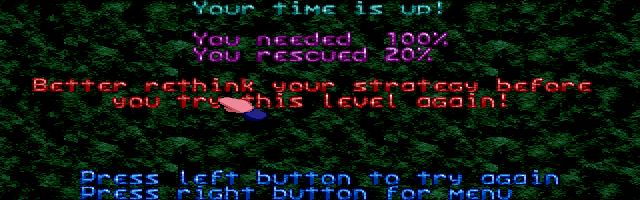
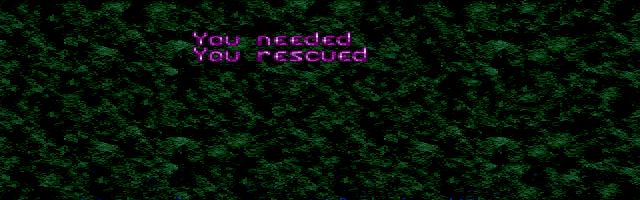
Full game loop (main menu, pre/post game infos)

diff --git a/Lemmings2024.cs b/Lemmings2024.cs
@@ -5,6 +5,7 @@ using Microsoft.Xna.Framework.Input;
 using Oudidon;
 using System;
 using System.Collections.Generic;
+using System.ComponentModel.Design;
 using System.Diagnostics;
 using System.Linq;
 
@@ -31,9 +32,9 @@ namespace Lemmings2024
         private SpriteSheet _lemmingSprite;
         private List<Lemming> _lemmings = new();
 
+        private MouseCursor _mouseCursorMenu;
         private MouseCursor _mouseCursorPoint;
         private MouseCursor _mouseCursorSelect;
-
         private Texture2D _explodeTexture;
         private Color[] _explodeTextureData;
 
@@ -46,6 +47,7 @@ namespace Lemmings2024
         private Texture2D _preGameBackground;
         private Texture2D _postGameBackground;
 
+        private Texture2D _menuBackground;
         private Texture2D _hudTexture;
         private Texture2D _hudSelectTexture;
         private Texture2D _radarFrameTexture;
@@ -55,7 +57,7 @@ namespace Lemmings2024
         private SpriteSheet _digits;
 
         private float _spawnCount;
-        private float _savedLemmings;
+        private int _savedLemmings;
 
         private Character[] _hatches;
         private Character _exit;
@@ -92,6 +94,17 @@ namespace Lemmings2024
 
         private SoundEffect _lemmingLevel1Music;
         private SoundEffectInstance _lemmingLevel1MusicInstance;
+
+        private Effect _fontEffect;
+
+        private SpriteFont _digitsFont;
+        private Texture2D _endGameMessageSprite;
+        private Texture2D _TimesUpMessageSprite;
+        private Texture2D _winMessageSprite;
+        private Texture2D _perfectMessageSprite;
+        private Texture2D _loseMessageSprite;
+        private Texture2D _nextWinMessageSprite;
+        private Texture2D _nextLoseMessageSprite;
 
         protected override void Initialize()
         {
@@ -141,7 +154,7 @@ namespace Lemmings2024
         protected override void InitStateMachine()
         {
             base.InitStateMachine();
-            AddSate(STATE_MENU);
+            AddSate(STATE_MENU, onEnter: MenuEnter, onUpdate: MenuUpdate, onDraw: MenuDraw);
             AddSate(STATE_PRE_GAME, onEnter: PreGameEnter, onUpdate: PreGameUpdate, onDraw: PreGameDraw);
             AddSate(STATE_GAME, onEnter: GameEnter, onUpdate: GameUpdate, onExit: GameExit, onDraw: GameDraw);
             AddSate(STATE_POST_GAME, onEnter: PostGameEnter, onUpdate: PostGameUpdate, onDraw: PostGameDraw);
@@ -150,17 +163,32 @@ namespace Lemmings2024
         protected override void LoadContent()
         {
             Texture2D mouseCursorTexture = Content.Load<Texture2D>("cursor_point");
-            _mouseCursorPoint = CreateCursor(mouseCursorTexture);
+            _mouseCursorPoint = CreateCursor(mouseCursorTexture, new Vector2(0.5f, 0.5f));
 
             mouseCursorTexture = Content.Load<Texture2D>("cursor_select");
-            _mouseCursorSelect = CreateCursor(mouseCursorTexture);
+            _mouseCursorSelect = CreateCursor(mouseCursorTexture, new Vector2(0.5f, 0.5f));
 
+            mouseCursorTexture = Content.Load<Texture2D>("cursor_menu");
+            _mouseCursorMenu = CreateCursor(mouseCursorTexture, new Vector2(0.5f, 0.5f));
+
+            _menuBackground = Content.Load<Texture2D>("title");
             _preGameBackground = Content.Load<Texture2D>("pre_game");
             _postGameBackground = Content.Load<Texture2D>("post_game");
             _hudTexture = Content.Load<Texture2D>("HUD");
             _hudSelectTexture = Content.Load<Texture2D>("HUD_select");
             _radarFrameTexture = Content.Load<Texture2D>("radar-frame");
             _digits = new SpriteSheet(Content, "digits", 8, 8, Point.Zero);
+
+            _digitsFont = CreateSpriteFont("digits-big", "%0123456789");
+
+            _endGameMessageSprite = Content.Load<Texture2D>("win-message");
+            _TimesUpMessageSprite = Content.Load<Texture2D>("lose-message");
+            _winMessageSprite = Content.Load<Texture2D>("win-cheer-2");
+            _perfectMessageSprite = Content.Load<Texture2D>("win-cheer-1");
+            _loseMessageSprite = Content.Load<Texture2D>("lose-cheer-1");
+            _nextWinMessageSprite = Content.Load<Texture2D>("next-win");
+            _nextLoseMessageSprite = Content.Load<Texture2D>("next-lose");
+
             _radarRect = new Rectangle(416, PLAYGROUND_HEIGHT + 16 + 2, 200, 20);
             _radarRatio = (float)PLAYGROUND_WIDTH / _radarRect.Width;
 
@@ -236,11 +264,30 @@ namespace Lemmings2024
             _mineTextureData = new Color[_mineTexture.Width * _mineTexture.Height];
             _mineTexture.GetData(_mineTextureData);
 
+            _fontEffect = Content.Load<Effect>("File");
+
             _currentLevel = new Level(Content, "level1.data");
-            SetState(STATE_PRE_GAME);
+            SetState(STATE_MENU);
         }
 
-        private MouseCursor CreateCursor(Texture2D cursorTexture)
+        private SpriteFont CreateSpriteFont(string fontAsset, string charsString)
+        {
+            Texture2D fontTexture = Content.Load<Texture2D>(fontAsset);
+            List<Rectangle> glyphBounds = new List<Rectangle>();
+            List<Rectangle> cropping = new List<Rectangle>();
+            List<char> chars = new List<char>();
+            chars.AddRange(charsString);
+            List<Vector3> kerning = new List<Vector3>();
+            for (int i = 0; i < fontTexture.Width / 16; i++)
+            {
+                glyphBounds.Add(new Rectangle(i * 16, 0, 16, 15));
+                cropping.Add(new Rectangle(0, 0, 16, 15));
+                kerning.Add(new Vector3(0, 16, 0));
+            }
+            return new SpriteFont(fontTexture, glyphBounds, cropping, chars, 0, 0, kerning, '0');
+        }
+
+        private MouseCursor CreateCursor(Texture2D cursorTexture, Vector2 origin)
         {
             RenderTarget2D _mouseCursorPointScaled;
             _mouseCursorPointScaled = new RenderTarget2D(GraphicsDevice, cursorTexture.Width * ScreenScaleX, cursorTexture.Height * ScreenScaleY);
@@ -251,7 +298,7 @@ namespace Lemmings2024
             _spriteBatch.End();
             GraphicsDevice.SetRenderTarget(_renderTarget);
 
-            return MouseCursor.FromTexture2D(_mouseCursorPointScaled, _mouseCursorPointScaled.Width / 2, _mouseCursorPointScaled.Height / 2);
+            return MouseCursor.FromTexture2D(_mouseCursorPointScaled, (int)(_mouseCursorPointScaled.Width * origin.X), (int)(_mouseCursorPointScaled.Height * origin.Y));
         }
 
         protected override void Update(GameTime gameTime)
@@ -305,7 +352,7 @@ namespace Lemmings2024
 
         private void OnLemmingBash(Lemming lemming)
         {
-            _currentLevel.Dig(_bashTexture, _bashTextureData, new Point(lemming.PixelPositionX - _bashTexture.Width/2 + (_bashTexture.Width / 2 - 1) * (int)lemming.CurrentScale.X, lemming.PixelPositionY - _bashTexture.Height));
+            _currentLevel.Dig(_bashTexture, _bashTextureData, new Point(lemming.PixelPositionX - _bashTexture.Width / 2 + (_bashTexture.Width / 2 - 1) * (int)lemming.CurrentScale.X, lemming.PixelPositionY - _bashTexture.Height));
         }
 
         private void OnLemmingMine(Lemming lemming)
@@ -353,6 +400,14 @@ namespace Lemmings2024
             _spriteBatch.Draw(_preGameBackground, Vector2.Zero, Color.White);
             _spriteBatch.Draw(_currentLevel.Texture, new Rectangle(0, 0, ScreenWidth, 46), Color.White);
             _spriteBatch.End();
+            _spriteBatch.Begin(samplerState: SamplerState.PointClamp, effect: _fontEffect);
+            int offset = 46;
+            _spriteBatch.DrawString(_digitsFont, "1", new Vector2(99, 16 + offset), new Color(187, 85, 85, 1));
+            _spriteBatch.DrawString(_digitsFont, _currentLevel.LemmingsCount.ToString(), new Vector2(467, 47 + offset), new Color(51, 136, 221, 1));
+            _spriteBatch.DrawString(_digitsFont, _currentLevel.WinRate.ToString() + "%", new Vector2(163, 63 + offset), new Color(68, 170, 68, 1));
+            _spriteBatch.DrawString(_digitsFont, _currentLevel.LemmingsRate.ToString(), new Vector2(369, 78 + offset), new Color(170, 119, 68, 1));
+            _spriteBatch.DrawString(_digitsFont, ((int)_currentLevel.Duration / 60).ToString(), new Vector2(289, 93 + offset), new Color(68, 170, 153, 1));
+            _spriteBatch.End();
         }
 
         private void PreGameUpdate(GameTime time, float arg2)
@@ -376,6 +431,41 @@ namespace Lemmings2024
             _spriteBatch.Begin(samplerState: SamplerState.PointClamp);
             _spriteBatch.Draw(_postGameBackground, Vector2.Zero, Color.White);
             _spriteBatch.End();
+
+            _spriteBatch.Begin(samplerState: SamplerState.PointClamp, effect: _fontEffect);
+            int savedPercent = _savedLemmings * 100 / _currentLevel.LemmingsCount;
+            _spriteBatch.DrawString(_digitsFont, _currentLevel.WinRate.ToString() + "%", new Vector2(380, 32), new Color(153, 68, 170, 1));
+            _spriteBatch.DrawString(_digitsFont, savedPercent.ToString() + "%", new Vector2(380, 47), new Color(153, 68, 170, 1));
+            _spriteBatch.End();
+
+            _spriteBatch.Begin(samplerState: SamplerState.PointClamp);
+
+            // TODO : change if time is up
+            _spriteBatch.Draw(_endGameMessageSprite, new Vector2(ScreenWidth / 2 - _endGameMessageSprite.Width / 2, 1), Color.White);
+
+            Texture2D endGameTexture;
+            Texture2D nextTexture;
+            if (savedPercent >= _currentLevel.WinRate)
+            {
+                if (savedPercent == 100)
+                {
+                    endGameTexture = _perfectMessageSprite;
+                }
+                else
+                {
+                    endGameTexture = _winMessageSprite;
+                }
+                nextTexture = _nextWinMessageSprite;
+            }
+            else
+            {
+                endGameTexture = _loseMessageSprite;
+                nextTexture = _nextLoseMessageSprite;
+            }
+            _spriteBatch.Draw(endGameTexture, new Vector2(ScreenWidth / 2 - endGameTexture.Width / 2, ScreenHeight / 2 - endGameTexture.Height / 2), Color.White);
+            _spriteBatch.Draw(nextTexture, new Vector2(ScreenWidth / 2 - nextTexture.Width / 2, ScreenHeight - nextTexture.Height), Color.White);
+
+            _spriteBatch.End();
         }
 
         private void PostGameUpdate(GameTime time, float arg2)
@@ -383,9 +473,14 @@ namespace Lemmings2024
             if (CameraFade.IsFading)
                 return;
             SimpleControls.GetStates();
+            int savedPercent = _savedLemmings * 100 / _currentLevel.LemmingsCount;
             if (SimpleControls.LeftMouseButtonPressedThisFrame())
             {
                 CameraFade.FadeToBlack(FADE_DURATION, OnFadeDone: () => SetState(STATE_PRE_GAME));
+            }
+            else if (savedPercent < _currentLevel.WinRate && SimpleControls.RightMouseButtonPressedThisFrame())
+            {
+                CameraFade.FadeToBlack(FADE_DURATION, OnFadeDone: () => SetState(STATE_MENU));
             }
         }
 
@@ -394,11 +489,12 @@ namespace Lemmings2024
             Mouse.SetCursor(_mouseCursorPoint);
             _spawnCount = 0;
             _spawnTimer = 0;
+            _savedLemmings = 0;
             for (int i = 0; i < _currentLevel.HatchPositions.Length; i++)
             {
                 ShowHatch(i);
             }
-            _currentSpawnRate = _currentLevel.LemmingRate;
+            _currentSpawnRate = _currentLevel.LemmingsRate;
             _currentLevel.AvailableActions.CopyTo(_availableActions, 0);
             _exit.MoveTo(_currentLevel.ExitPosition.ToVector2());
             ScrollOffset = _currentLevel.StartScrollOffset;
@@ -657,12 +753,12 @@ namespace Lemmings2024
                 if (_currentLevel.AvailableActions[i] > 0)
                 {
                     int offset = (i + 2) * 32;
-                    DrawNumber(_availableActions[i], startPosition + new Vector2(offset, 0));
+                    DrawNumber(_availableActions[i], startPosition + new Vector2(offset, 0), _digits);
                 }
             }
 
-            DrawNumber(_currentLevel.LemmingRate, startPosition);
-            DrawNumber((int)_currentSpawnRate, startPosition + new Vector2(32, 0));
+            DrawNumber(_currentLevel.LemmingsRate, startPosition, _digits);
+            DrawNumber((int)_currentSpawnRate, startPosition + new Vector2(32, 0), _digits);
 
             _spriteBatch.Draw(_hudSelectTexture, new Vector2((_currentLemmingAction + 2) * 32, 176), Color.White);
             _spriteBatch.End();
@@ -688,11 +784,47 @@ namespace Lemmings2024
             _spriteBatch.End();
         }
 
-        private void DrawNumber(int number, Vector2 position)
+        private void DrawNumber(int number, Vector2 position, SpriteSheet digits)
         {
-            _digits.DrawFrame(number / 10, _spriteBatch, position, Point.Zero, 0, Vector2.One, Color.White);
-            _digits.DrawFrame(number % 10, _spriteBatch, position + new Vector2(8, 0), Point.Zero, 0, Vector2.One, Color.White);
+            digits.DrawFrame(number / 10, _spriteBatch, position, Point.Zero, 0, Vector2.One, Color.White);
+            digits.DrawFrame(number % 10, _spriteBatch, position + new Vector2(digits.FrameWidth, 0), Point.Zero, 0, Vector2.One, Color.White);
         }
+
+        private void MenuEnter()
+        {
+            CameraFade.FadeFromBlack(FADE_DURATION);
+            Mouse.SetCursor(_mouseCursorMenu);
+        }
+
+        private void MenuUpdate(GameTime gameTime, float stateTime)
+        {
+            if (CameraFade.IsFading)
+            {
+                return;
+            }
+
+            SimpleControls.GetStates();
+            Point mousePosition = SimpleControls.GetMousePosition();
+            Point scaledMousePosition = new Point(mousePosition.X / ScreenScaleX, mousePosition.Y / ScreenScaleY);
+
+            Rectangle startGameRectangle = new Rectangle(15, 135, 104, 37);
+
+            if (SimpleControls.LeftMouseButtonPressedThisFrame())
+            {
+                if (startGameRectangle.Contains(scaledMousePosition))
+                {
+                    CameraFade.FadeToBlack(FADE_DURATION, () => SetState(STATE_PRE_GAME));
+                }
+            }
+        }
+
+        private void MenuDraw(SpriteBatch gameTime, GameTime stateTime)
+        {
+            _spriteBatch.Begin(samplerState: SamplerState.PointClamp, blendState: BlendState.AlphaBlend);
+            _spriteBatch.Draw(_menuBackground, Vector2.Zero, Color.White);
+            _spriteBatch.End();
+        }
+
         #endregion
 
         #region Actions
@@ -716,9 +848,9 @@ namespace Lemmings2024
 
             _currentSpawnRate = _currentSpawnRate + (index * 2 - 1) * DeltaTime * RATE_INCREASE_SPEED;
 
-            if (_currentSpawnRate <= _currentLevel.LemmingRate || _currentSpawnRate >= 99)
+            if (_currentSpawnRate <= _currentLevel.LemmingsRate || _currentSpawnRate >= 99)
             {
-                _currentSpawnRate = Math.Clamp(_currentSpawnRate, _currentLevel.LemmingRate, 99); ;
+                _currentSpawnRate = Math.Clamp(_currentSpawnRate, _currentLevel.LemmingsRate, 99); ;
                 return;
             }
 

diff --git a/Level.cs b/Level.cs
@@ -27,9 +27,9 @@ namespace Lemmings2024
         private int _lemmingsCount;
         public int LemmingsCount => _lemmingsCount;
         private int _lemmingsRate;
-        public int LemmingRate => _lemmingsRate;
-        private float _winRate;
-        public float WinRate => _winRate;
+        public int LemmingsRate => _lemmingsRate;
+        private int _winRate;
+        public int WinRate => _winRate;
         private float _duration;
         public float Duration => _duration;
 
@@ -111,7 +111,7 @@ namespace Lemmings2024
                             _duration = float.Parse(dataValue);
                             break;
                         case nameof(_winRate):
-                            _winRate = float.Parse(dataValue) / 100f;
+                            _winRate = int.Parse(dataValue);
                             break;
                         case nameof(_startScrollOffset):
                             _startScrollOffset = int.Parse(dataValue);
